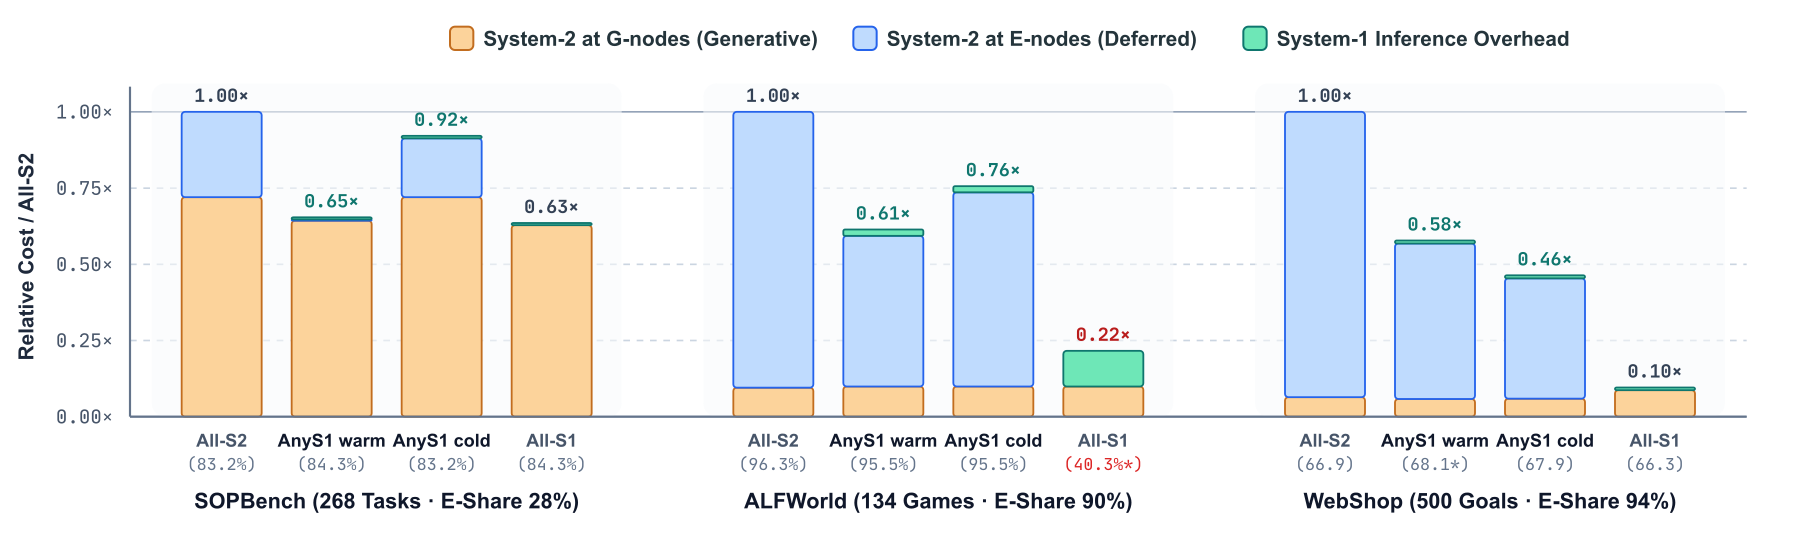
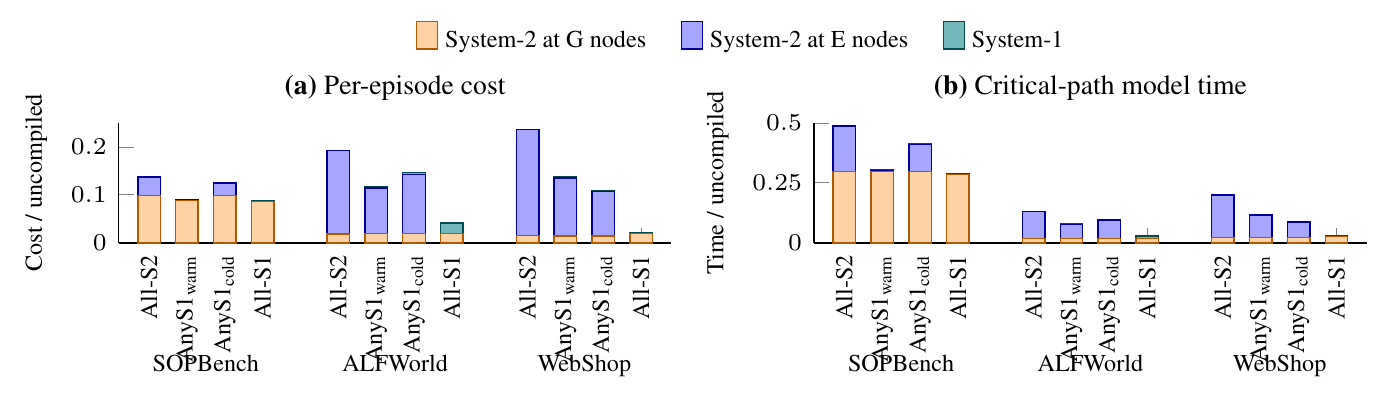
Report efficiency relative to the uncompiled System-2 agent

diff --git a/README.md b/README.md
@@ -46,15 +46,15 @@
 </div>
 
 > [!IMPORTANT]
-> **TL;DR:** Prior dual-system agents hard-code System-1 hooks per workflow. **AnyS1** exploits the procedural structure of `SKILL.md` repositories to build **one general 4B System-1** that transfers zero-shot across unseen workflows and frontier System-2 backbones (**DeepSeek-V4.1-Flash** and **GPT-6 Sol**) — preserving `All-S2` task success while cutting episode cost by **30–44%** and critical-path model time by **38–48%** under `AnyS1_warm`, and maintaining reliability with zero target data under `AnyS1_cold`.
+> **TL;DR:** Prior dual-system agents hard-code System-1 hooks per workflow. **AnyS1** exploits the procedural structure of `SKILL.md` repositories to build **one general 4B System-1** that transfers zero-shot across unseen workflows and frontier System-2 backbones (**DeepSeek-V4.1-Flash** and **GPT-6 Sol**) — preserving `All-S2` task success while cutting episode cost by **75–91%** and critical-path model time by **63–92%** relative to an uncompiled System-2 agent under `AnyS1_warm`, and maintaining reliability with zero target data under `AnyS1_cold`.
 
 ---
 
 ## ✨ Highlights
 
-| 🔀 64.5% E-Nodes | 🧪 83.8% Held-Out Dev | 💰 −30% to −44% Cost | ⚡ 22–32 ms S1 |
+| 🔀 64.5% E-Nodes | 🧪 83.8% Held-Out Dev | 💰 −75% to −91% Cost | ⚡ 22–32 ms S1 |
 | :--- | :--- | :--- | :--- |
-| `17,865` decision points mined across `1,072` public skills (`16` categories); `100%` of skills contain $\ge 1$ enumerable branch | `25,986` consensus container states (**Any-DP**); outperforms synthetic states by **+18.8 pts** and cross-task real states by **+7.0 pts** | Matches or beats `All-S2` under both **DeepSeek-V4.1-Flash** (`38%` avg saving) and **GPT-6 Sol** (`36%` avg saving), cutting model time by **38–48%** | Single H100 `bf16` forward pass (`55–81×` faster than System-2 calls; serving overhead $\kappa \le 2.1\%$) |
+| `17,865` decision points mined across `1,072` public skills (`16` categories); `100%` of skills contain $\ge 1$ enumerable branch | `25,986` consensus container states (**Any-DP**); outperforms synthetic states by **+18.8 pts** and cross-task real states by **+7.0 pts** | Matches `All-S2` success under both **DeepSeek-V4.1-Flash** (`89%` avg saving vs. uncompiled agent) and **GPT-6 Sol** (`82%`), cutting model time by **63–92%** | Single H100 `bf16` forward pass (`55–81×` faster than System-2 calls; serving overhead $\kappa \le 2.1\%$) |
 
 ---
 
@@ -85,22 +85,24 @@ Evaluated across three benchmarks unseen during training (**SOPBench**, **ALFWor
 
 | System-2 | Configuration | SOPBench Pass (Sav. % / Time) | ALFWorld SR (Sav. % / Time) | WebShop Score / SR (Sav. % / Time) | Avg. $\Delta$ pt | Avg. Sav. % |
 | :--- | :--- | :---: | :---: | :---: | :---: | :---: |
-| **DeepSeek-V4.1-Flash** | `System-2` Agent w/ Skills *(Uncompiled)* | `55.2` (7.3× / 51.4s) | `82.8` (5.2× / 163s) | `54.9` / `34.4` (4.2× / 146s) | `−17.8` | `5.6×` cost |
-| | Compiled Workflow (`All-S2`) | `83.2` (– / 25.0s) | **`96.3`** (– / 21.3s) | `66.9` / `38.0` (– / 29.0s) | `–` | `–` |
-| | `Jev` as System-1† | `84.0` (2% / 23.9s) | **`96.3`** (15% / 20.5s) | `67.1` / `38.6` (28% / 17.3s) | `+0.3` | `15%` |
-| | **`AnyS1_warm`** *(50 unlabeled dev runs)* | **`84.3`** (**35%** / **15.6s**) | `95.5` (**39%** / **12.9s**) | **`68.1*`** / **`38.8`** (42% / 17.1s) | **`+0.5`** | **`38%`** |
-| | **`AnyS1_cold`** *(transferred τ = 0.918, 0 runs)* | `83.2` (8% / 21.2s) | `95.5` (24% / 15.7s) | `67.9` / `38.0` (**54%** / **12.7s**) | `+0.1` | `29%` |
-| **GPT-6 Sol** | `System-2` Agent w/ Skills *(Uncompiled)* | `61.2` (7.4× / –) | `88.8` (2.3× / –) | `48.5` / `33.6` (3.6× / –) | `−16.8` | `4.4×` cost |
-| | Compiled Workflow (`All-S2`) | `82.1` (– / 124s) | **`96.3`** (– / 193s) | **`70.6`** / **`41.8`** (– / 81.4s) | `–` | `–` |
-| | **`AnyS1_warm`** *(50 Sol dev episodes)* | **`82.5`** (**35%** / **75.8s**) | `95.5` (**44%** / **101s**) | `70.4` / `40.0` (30% / 49.4s) | `−0.2` | **`36%`** |
-| | **`AnyS1_cold`** *(unchanged τ = 0.918)* | **`82.5`** (14% / 107s) | `94.0` (29% / 134s) | `70.1` / `40.4` (**49%** / **33.3s**) | `−0.8` | `31%` |
+| **DeepSeek-V4.1-Flash** | `System-2` Agent w/ Skills *(Uncompiled)* | `55.2` (– / 51.4s) | `82.8` (– / 163s) | `54.9` / `34.4` (– / 146s) | `−17.8` | reference |
+| | Compiled Workflow (`All-S2`) | `83.2` (86% / 25.0s) | **`96.3`** (81% / 21.3s) | `66.9` / `38.0` (76% / 29.0s) | `–` | `81%` |
+| | `Jev` as System-1† | `84.0` (87% / 23.9s) | **`96.3`** (84% / 20.5s) | `67.1` / `38.6` (83% / 17.3s) | `+0.3` | `84%` |
+| | **`AnyS1_warm`** *(50 unlabeled dev runs)* | **`84.3`** (**91%** / **15.6s**) | `95.5` (**88%** / **12.9s**) | **`68.1*`** / **`38.8`** (86% / 17.1s) | **`+0.5`** | **`89%`** |
+| | **`AnyS1_cold`** *(transferred τ = 0.918, 0 runs)* | `83.2` (87% / 21.2s) | `95.5` (85% / 15.7s) | `67.9` / `38.0` (**89%** / **12.7s**) | `+0.1` | `87%` |
+| **GPT-6 Sol** | `System-2` Agent w/ Skills *(Uncompiled)* | `61.2` (– / 207.6s) | `88.8` (– / 413.5s) | `48.5` / `33.6` (– / 317.3s) | `−16.8` | reference |
+| | Compiled Workflow (`All-S2`) | `82.1` (86% / 124s) | **`96.3`** (56% / 193s) | **`70.6`** / **`41.8`** (72% / 81.4s) | `–` | `71%` |
+| | **`AnyS1_warm`** *(50 Sol dev episodes)* | **`82.5`** (**91%** / **75.8s**) | `95.5` (**75%** / **101s**) | `70.4` / `40.0` (80% / 49.4s) | `−0.2` | **`82%`** |
+| | **`AnyS1_cold`** *(unchanged τ = 0.918)* | **`82.5`** (88% / 107s) | `94.0` (69% / 134s) | `70.1` / `40.4` (**86%** / **33.3s**) | `−0.8` | `81%` |
+
+*Sav. %: episode cost saving relative to the uncompiled `System-2` agent with skills under the same System-2; Time: critical-path model-call seconds per episode; Avg. Δ pt: macro-mean primary-metric difference from `All-S2`.*
 
 <div align="center">
-  <img src="assets/fig_cost.png" width="100%" alt="Per-episode cost relative to All-S2 decomposed into G-nodes, E-nodes, and System-1 overhead">
+  <img src="assets/fig_cost.png" width="100%" alt="Per-episode cost and model time relative to the uncompiled System-2 agent, decomposed into G-nodes, E-nodes, and System-1 overhead">
 </div>
 
 - **Why Both Gate & Label Smoothing Matter:** Without confidence deferral (`All-S1`), ALFWorld collapses from `96.3% → 40.3%` on open-world search nodes; without label smoothing ($\epsilon = 0.1$), plain cross-entropy saturates probabilities ($\tau: 0.904 \to 0.998$) and drops ALFWorld delegation agreement from `98.4% → 83.0%`.
-- **Structural Cost Ceiling:** Compilation first cuts cost by `4.2–7.3×` (`+18` avg pts); `AnyS1_warm` removes **30–44%** of the remaining episode cost with `AnyS1` serving priced at L4 GPU cost (`$0.0045` per 1K decisions, $\kappa \le 2.1\%$).
+- **Structural Cost Ceiling:** Relative to an uncompiled System-2 agent, the compiled `All-S2` already saves `56–86%` of episode cost (`+18` avg pts); `AnyS1_warm` raises the saving to **75–91%** with `AnyS1` serving priced at L4 GPU cost (`$0.0045` per 1K decisions, $\kappa \le 2.1\%$).
 
 ---
 
